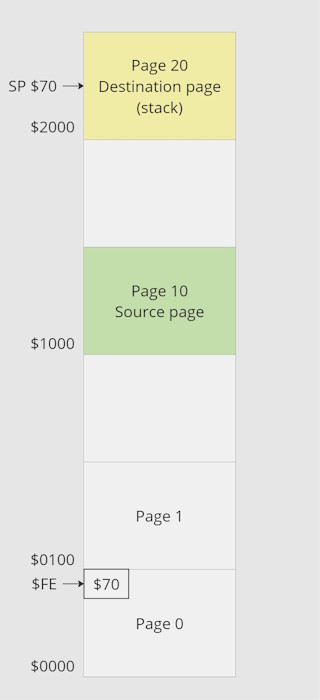
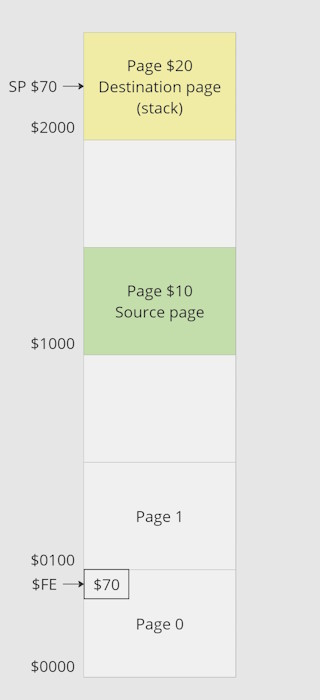
Edit on relocation

diff --git a/_posts/2023-12-26-memcopy-with-relocation.md b/_posts/2023-12-26-memcopy-with-relocation.md
@@ -83,14 +83,14 @@ places where few cycles are available, even 600 fewer cycles can make a differen
 For example, consider using this algorithm between the raster interrupt lines.
 
 Let's go into detail about the algorithm to understand how it works and consider
-copy page at $1000 (page 10) into page $2000 (page 20).
+copy page at $1000 (page $10) into page $2000 (page $20).
 This is the initial status of memory.
 
 ![Step 1](/resources/relocation-step-1.jpg)
 
 This is the initial status with page 0 and 1 located at $0000 and $0100.
-As expected, .X should contain source page (10) and .Y should contain destination page
-(20). Current stack is yellow.
+As expected, .X should contain source page ($10) and .Y should contain destination page
+($20). Current stack is yellow.
 
 ``` Assembly
 // Disable interrupt
@@ -107,13 +107,13 @@ As expected, .X should contain source page (10) and .Y should contain destinatio
       sty $d509
 ```
 
-After running the first part of the algorith, memory status has changed:
+After running the first part of the algorithm, memory status has changed:
 
 ![Step 2](/resources/relocation-step-2.jpg)
 
 Interrupt are disabled, a self-mod code is done to point to source page and current
 stack pointer value (for example, $70) is copied into a zero-page location. Last
-operation will relocate stack from page 1 to destination page (20).
+operation will relocate stack from page 1 to destination page ($20).
 
 And now the main part:
 
@@ -157,3 +157,7 @@ The last part, the initial environment is restored:
 
 Stack page is restored to page 1 and then original stack pointer is taken from $FE
 and restored to original value. Lastly, interrupt are reactivated.
+
+This can be a valid alternative if you have to be quick. It is only available on
+Commodore 128 because the relocation of the pages is managed by the MMU. The price
+to pay is greater implementation complexity.
